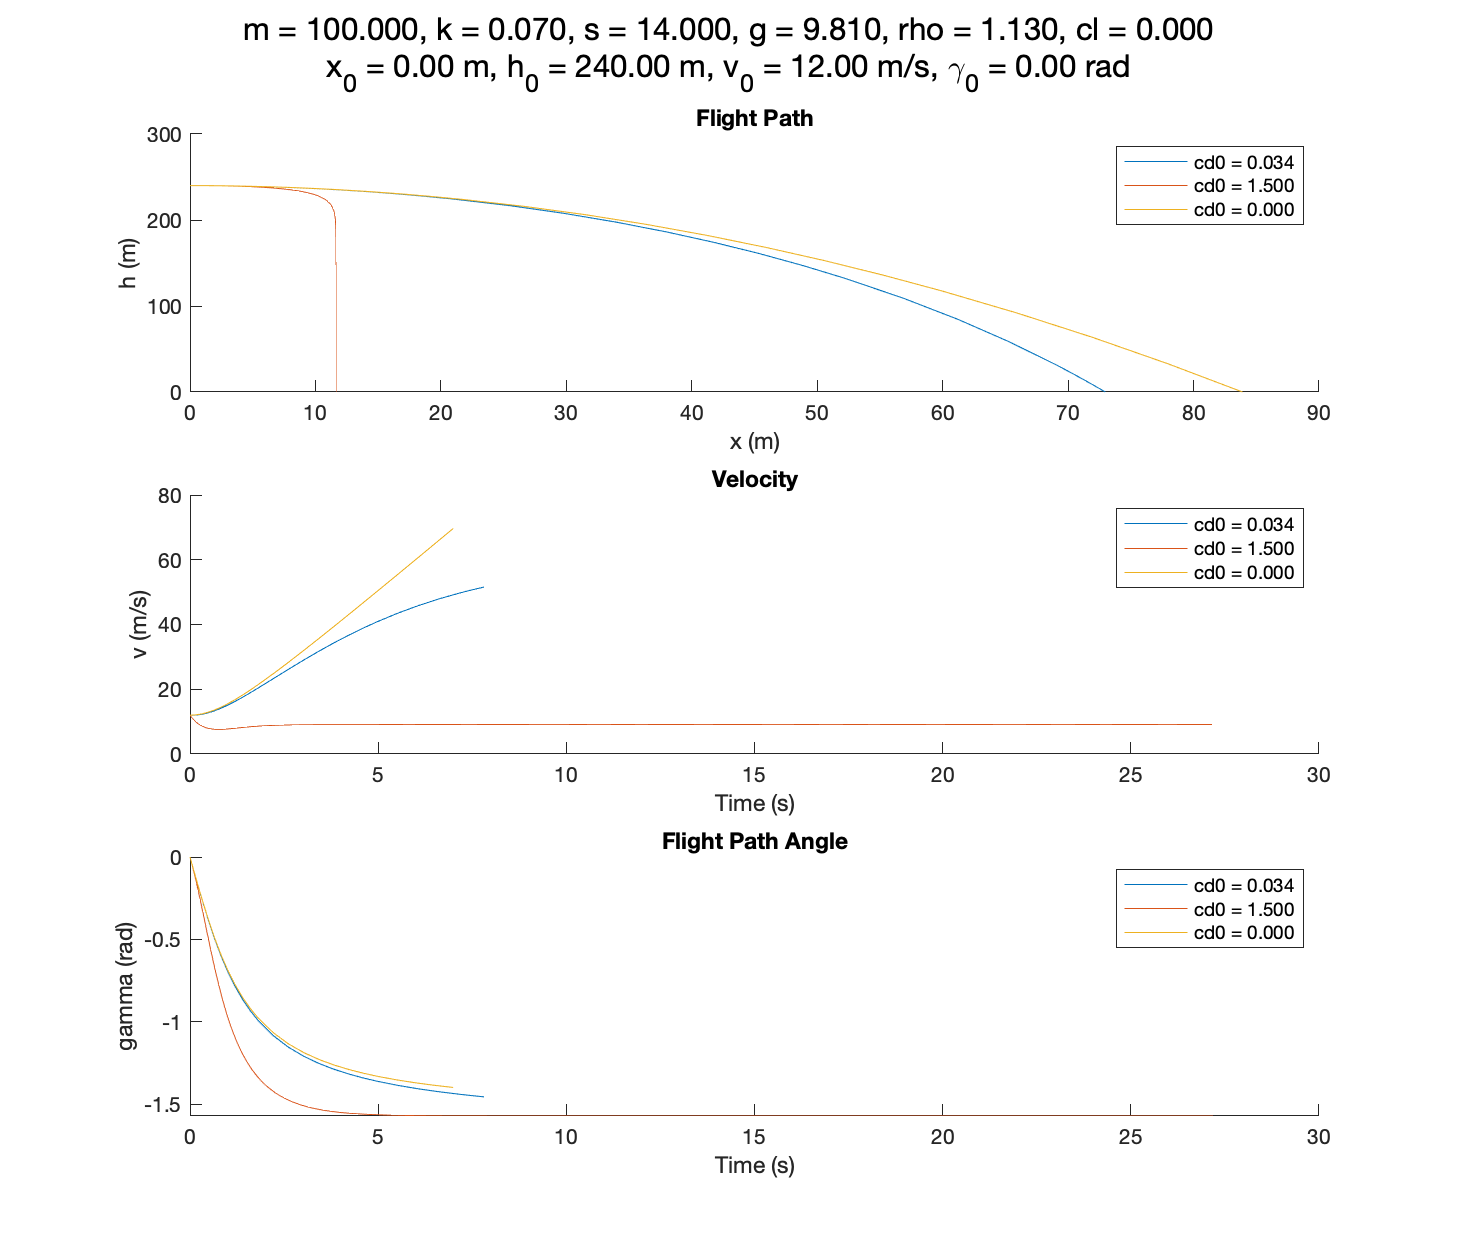
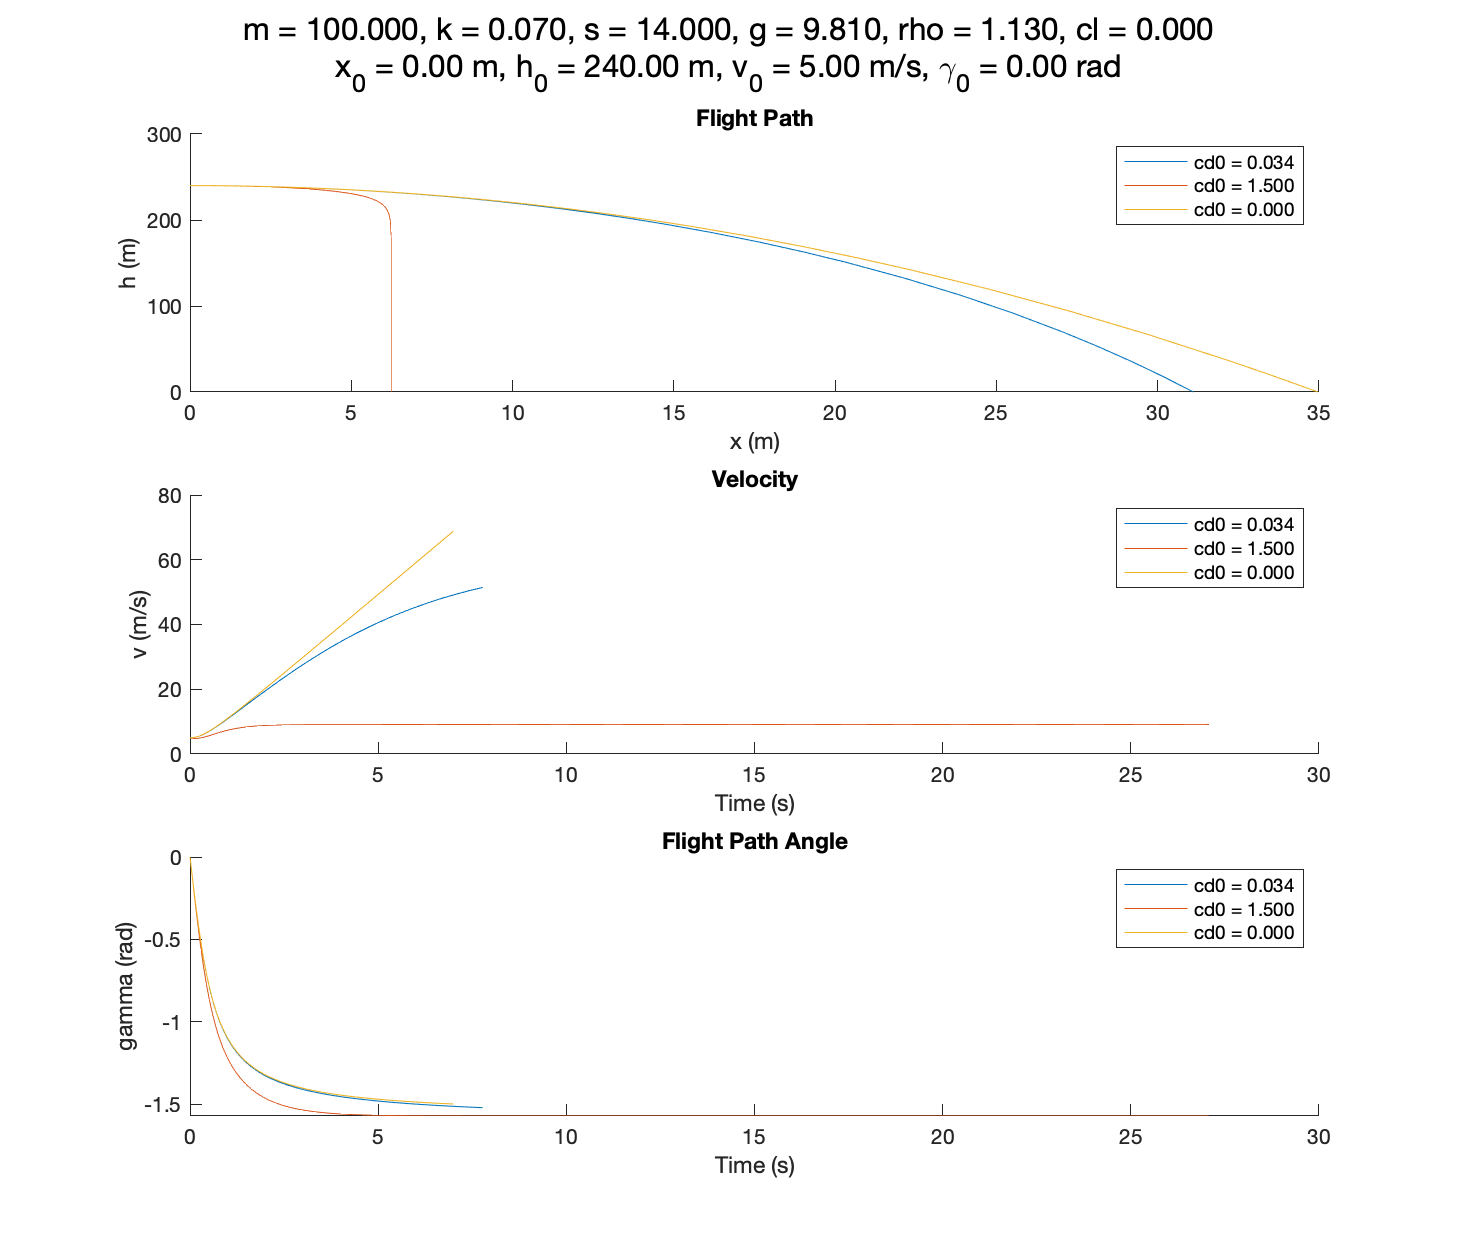
added X0 simulations

diff --git a/simulate_gamma.m b/simulate_gamma.m
@@ -1,0 +1,94 @@
+% Script to simulate and plot flight dynamics for different initial flight path angles
+
+% Clear workspace and figures
+clear all;
+close all;
+clc;
+
+% First set of parameters
+X0 = [0; 240; 5; 0];    % Initial state [x, h, v, gamma], gamma will be varied
+tspan = [0, 100];       % Time span [start, end]
+m = 100;                % Mass in kg
+cd0 = 0.034;            % Zero drag coefficient
+k = 0.07;               % Induced drag coefficient
+s = 14;                 % Reference area in m^2
+g = 9.81;               % Gravitational acceleration in m/s^2
+rho = 1.13;             % Air density in kg/m^3
+cl = 0;                 % Lift coefficient
+
+% Array of initial flight path angles to test (in radians)
+gamma0_array = deg2rad([-50, -20, 0, 20, 50]);  % Convert degrees to radians
+
+% Initialize figure and subplots
+figureHandle = figure;
+
+% Flight Path subplot
+subplot(3, 1, 1);
+hold on;
+title('Flight Path');
+xlabel('x (m)');
+ylabel('h (m)');
+
+% Velocity subplot
+subplot(3, 1, 2);
+hold on;
+title('Velocity');
+xlabel('Time (s)');
+ylabel('v (m/s)');
+
+% Flight Path Angle subplot
+subplot(3,1,3);
+hold on;
+title('Flight Path Angle');
+xlabel('Time (s)');
+ylabel('\gamma (rad)');
+
+% Prepare ODE options with event function
+options = odeset('Events', @myEventsFcn);
+
+% Loop over each initial flight path angle
+for idx = 1:length(gamma0_array)
+    % Set the initial flight path angle
+    gamma0 = gamma0_array(idx);
+    X0(4) = gamma0;  % Update initial gamma
+
+    % Solve the state equations using ode45
+    [t, X] = ode45(@(t, X) dy_sim(X, cl, m, cd0, k, s, g, rho), tspan, X0, options);
+
+    % Create label for this simulation
+    label_str = sprintf('\\gamma_0 = %.1f°', rad2deg(gamma0));  % Convert rad to degrees for labeling
+
+    % Plot Flight Path
+    subplot(3, 1, 1);
+    plot(X(:,1), X(:,2), 'DisplayName', label_str);
+
+    % Plot Velocity
+    subplot(3, 1, 2);
+    plot(t, X(:, 3), 'DisplayName', label_str);
+
+    % Plot Flight Path Angle
+    subplot(3,1,3);
+    plot(t, X(:, 4), 'DisplayName', label_str);
+end
+
+% Add legends to the plots
+subplot(3, 1, 1);
+legend show;
+subplot(3, 1, 2);
+legend show;
+subplot(3,1,3);
+legend show;
+
+% Add parameters to the figure title
+params_str = sprintf(['Simulation for different initial flight path angles\n' ...
+    'm = %d kg, S = %.2f m^2, \\rho = %.2f kg/m^3, g = %.3f m/s^2\n', ...
+    'x_0 = %.2f m, h_0 = %.2f m, v_0 = %.2f m/s'], ...
+    m, s, rho, g, X0(1), X0(2), X0(3));
+sgtitle(params_str);
+
+% Function for the event (stopping condition)
+function [value, isterminal, direction] = myEventsFcn(t, X)
+    value = X(2);       % Stop when altitude h = 0
+    isterminal = 1;     % Stop the integration
+    direction = -1;     % Negative direction only
+end

diff --git a/simulation.m b/simulation.m
@@ -9,7 +9,7 @@ k = 0.07;               % Induced drag coefficient
 s = 14;                 % Reference area in m^2
 g = 9.81;               % Gravitational acceleration in m/s^2
 rho = 1.13;             % Air density in kg/m^3s
-cl = 0;                 % Lift coefficient
+cl = 0.5;                 % Lift coefficient
 
 
 % Vary air density (rho)
@@ -19,23 +19,30 @@ cl = 0;                 % Lift coefficient
 %% Vary mass (m)
 %m_array = [100, 10, 300];
 %simulate_flight(X0, tspan, m_array, cd0, k, s, g, rho, cl);
-%
-%
-%% Vary gravitational constant (g)
-%g_array = [9.81, 15, 4.0];
-%simulate_flight(X0, tspan, m, cd0, k, s, g_array, rho, cl);
-%
-%% Vary Reference area (s)
-%s_array = [14, 30, 4.0];
-%simulate_flight(X0, tspan, m, cd0, k, s_array, g, rho, cl);
-%
-%% Vary zero drag coefficient (cd0)
-%cd0_array = [0.034, 1.5, 0];
-%simulate_flight(X0, tspan, m, cd0_array, k, s, g, rho, cl);
 
-% Vary lift coefficient (cl)
-%cl_array = [0.4, 0.5, 0.6];
-%simulate_flight(X0, tspan, m, cd0, k, s, g, rho, cl_array);
+
+% Vary gravitational constant (g)
+g_array = [9.81, 15, 4.0];
+simulate_flight(X0, tspan, m, cd0, k, s, g_array, rho, cl);
+
+% Vary Reference area (s)
+s_array = [14, 30, 4.0];
+simulate_flight(X0, tspan, m, cd0, k, s_array, g, rho, cl);
+
+%Vary zero drag coefficient (cd0)
+cd0_array = [0.034, 1.5, 0];
+simulate_flight(X0, tspan, m, cd0_array, k, s, g, rho, cl);
+
+%Vary lift coefficient (cl)
+cl_array = [0.4, 0.5, 0.6];
+simulate_flight(X0, tspan, m, cd0, k, s, g, rho, cl_array);
 
 X0_array = [0; 240; [0,5; 9.8;]; 0]; 
 simulate_flight(X0, tspan, m, cd0, k, s, g, rho, cl);
+
+%Vary induced drag coeff. (k)
+k_array = [0; 0.07; 0.5;];
+%since cl*k is in the state equation for velcoity -> if cl=0 then k does
+%not change anything
+cl_k = 0.5;
+simulate_flight(X0, tspan, m, cd0, k_array, s, g, rho, cl_k);

diff --git a/dy_sim.m b/dy_sim.m
@@ -5,13 +5,10 @@ function Xdot = dy_sim(X, cl, m, cd0, k, s, g, rho)
 % State equations of the glider
 
 % state variables
-x = X(1);       % x-coordinate
-h = X(2);       % altitude
+%x = X(1);       % x-coordinate
+%h = X(2);       % altitude
 v = X(3);       % velocity
 gamma = X(4);   % flight path angle
-
-%stay level
-%cl = g*cos(gamma)/(v*s*0.5*rho*v/m);
 
 % state equations
 xdot = v * cos(gamma);      % Horizontal velocity
